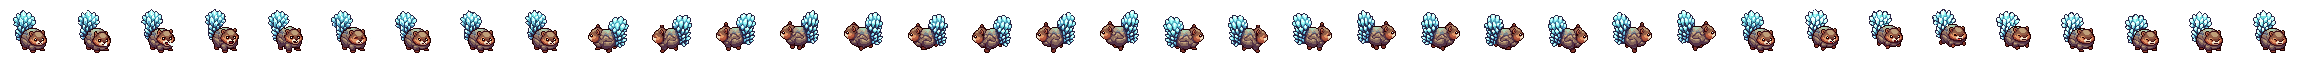
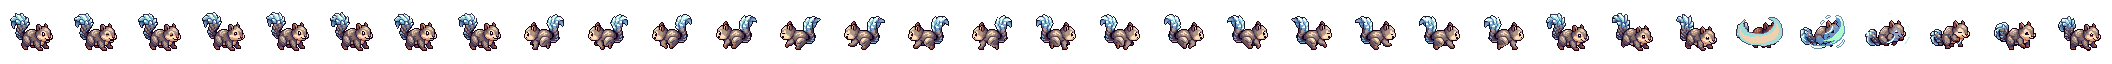
Substitui sprite do Pebblit pelo modelo side-scroller
O sprite anterior do Pebblit era do estilo de rotacao 8-direcional do
PixelLab (anterior ao padrao side-scroller adotado pro mapa). Remontado
(idle, andar esquerda/direita, clique) no mesmo estilo dos demais.

diff --git a/scripts/assemble_pixellab_animations.py b/scripts/assemble_pixellab_animations.py
@@ -74,11 +74,11 @@ if __name__ == "__main__":
     IMAGES_DIR = Path(sys.argv[1]) if len(sys.argv) > 1 else Path(".")
 
     assemble(
-        "solarva",
+        "pebblit",
         {
-            "idle": (IMAGES_DIR / "51.gif", True),
-            "walk_left": (IMAGES_DIR / "49.gif", True),
-            "walk_right": (IMAGES_DIR / "50.gif", True),
-            "click": (IMAGES_DIR / "48.gif", False),
+            "idle": (IMAGES_DIR / "55.gif", True),
+            "walk_left": (IMAGES_DIR / "53.gif", True),
+            "walk_right": (IMAGES_DIR / "54.gif", True),
+            "click": (IMAGES_DIR / "52.gif", False),
         },
     )
